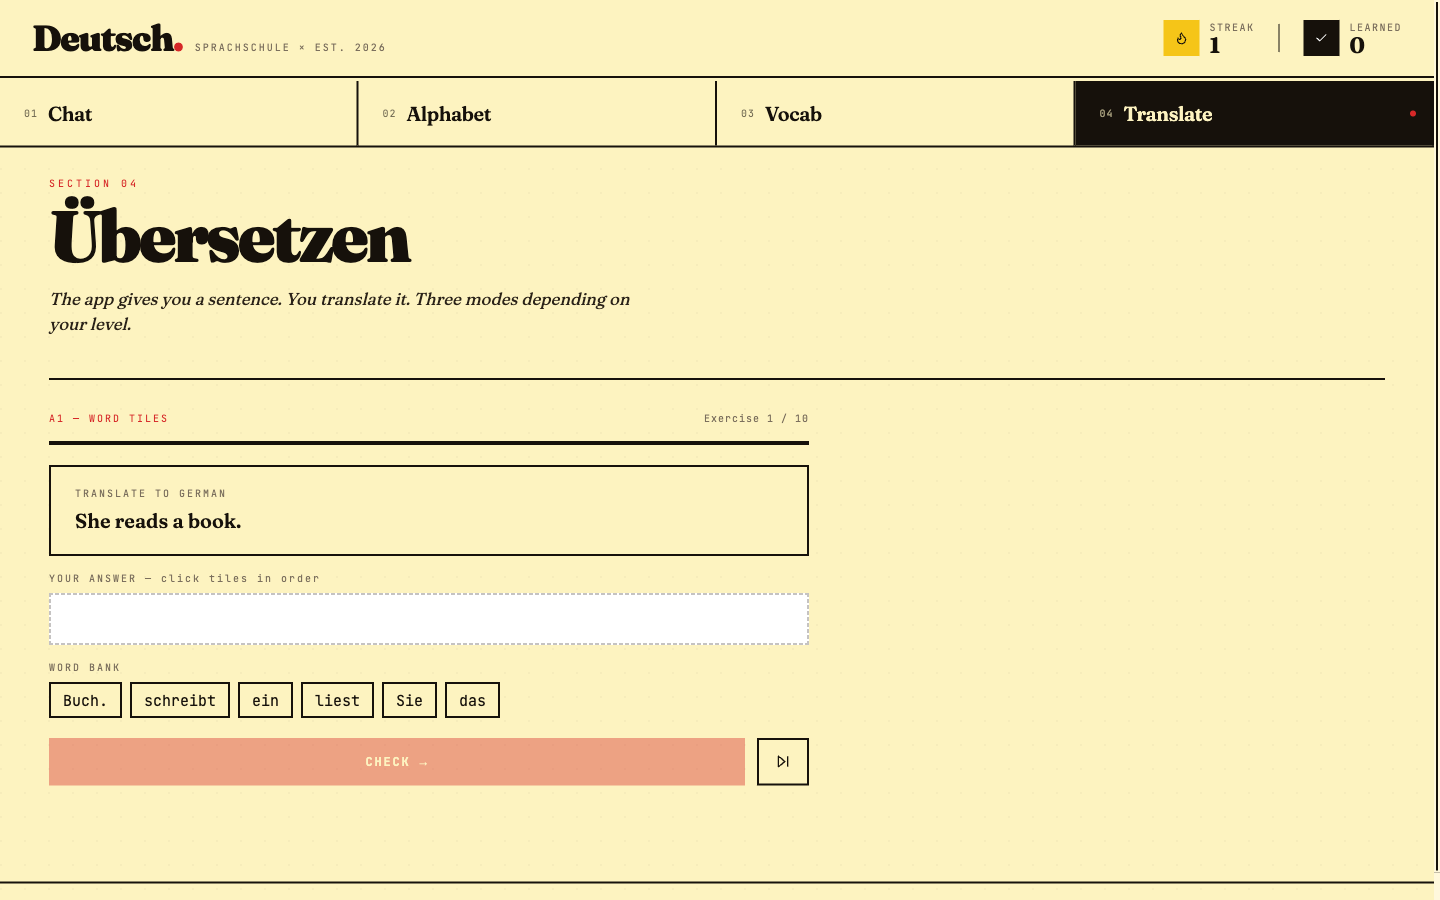
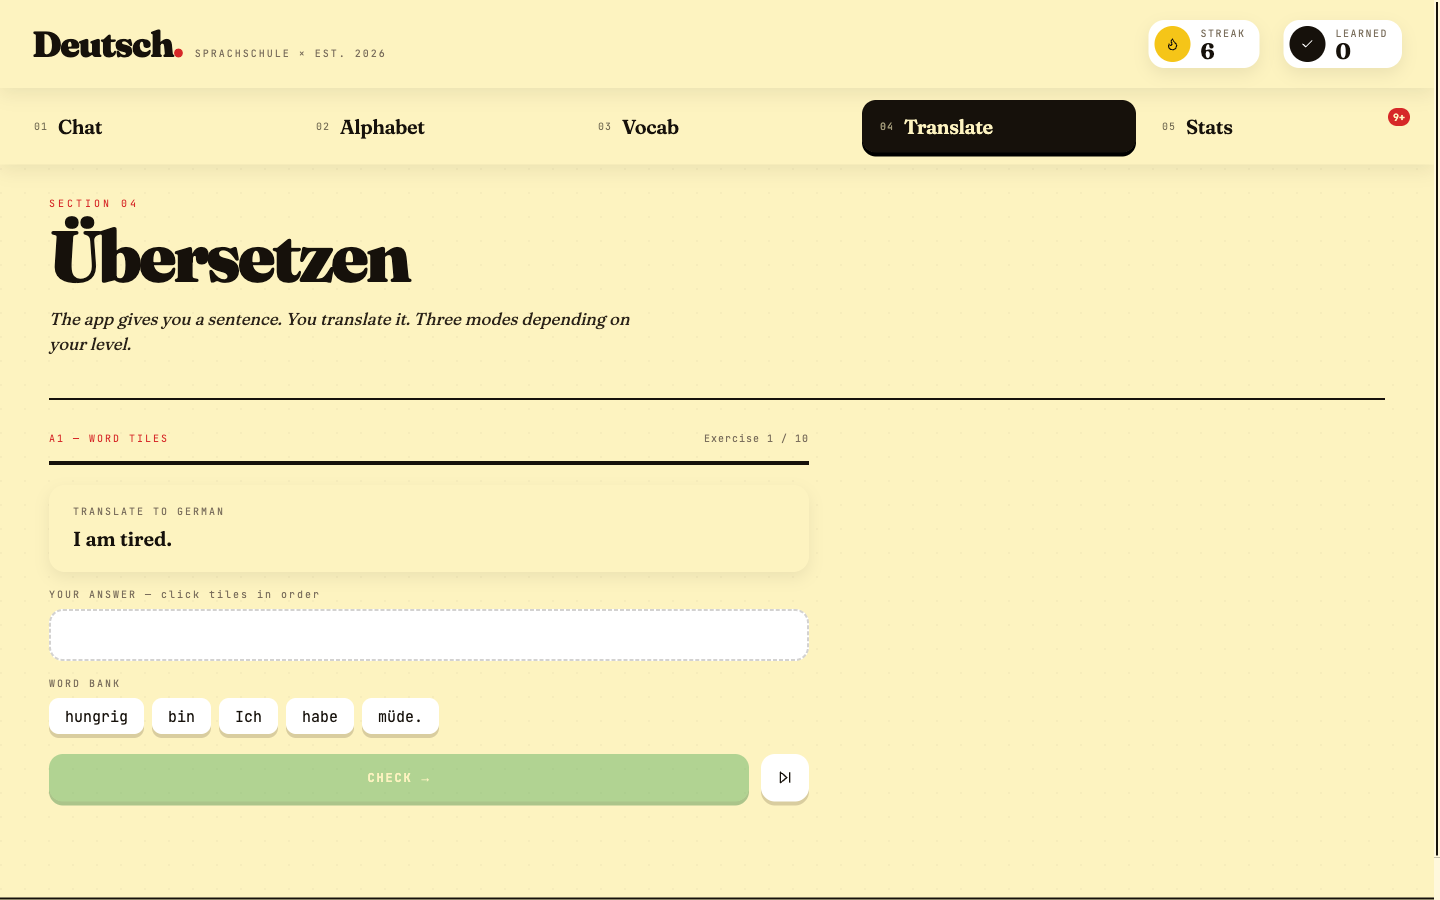
docs: refresh README for redesign + add CI/Live-Demo badges + social preview
- Re-capture all 6 screenshots in the new "playful editorial" design
  (the old ones showed the pre-redesign flat look) at 1440px
- Hero now showcases splash + chat + vocab + stats
- Badges: add live GitHub Actions CI status + Live Demo (Vercel) badges,
  split status vs tech badge rows, bump Vitest 142 → 163
- Tech Stack: Testing row → 163 + React Testing Library; add CI row
- Add docs/social-preview.png (1280×640 branded OG image) + its
  docs/social-preview.html source for regeneration

diff --git a/docs/social-preview.html b/docs/social-preview.html
@@ -1,0 +1,74 @@
+<!doctype html>
+<html>
+  <head>
+    <meta charset="utf-8" />
+    <style>
+      @import url('https://fonts.googleapis.com/css2?family=Fraunces:opsz,wght@9..144,400;9..144,600;9..144,700;9..144,900&family=JetBrains+Mono:wght@400;500;700&display=swap');
+      * { margin: 0; padding: 0; box-sizing: border-box; }
+      html, body { width: 1280px; height: 640px; overflow: hidden; }
+      body {
+        font-family: 'Fraunces', Georgia, serif;
+        background: #FDF3C0;
+        background-image: radial-gradient(circle at 1px 1px, rgba(42,34,24,0.06) 1px, transparent 0);
+        background-size: 26px 26px;
+        display: flex;
+        position: relative;
+      }
+      .flag { position: absolute; top: 0; right: 0; bottom: 0; width: 14px; display: flex; flex-direction: column; }
+      .flag > div { flex: 1; }
+      .mono { font-family: 'JetBrains Mono', monospace; }
+      .left { flex: 1; padding: 76px 0 76px 80px; display: flex; flex-direction: column; justify-content: center; }
+      .right { width: 470px; display: flex; flex-direction: column; justify-content: center; gap: 18px; padding-right: 70px; }
+      .pill {
+        display: inline-flex; align-items: center; gap: 8px;
+        background: #fff; border-radius: 999px; padding: 9px 16px;
+        font-family: 'JetBrains Mono', monospace; font-size: 14px; font-weight: 700;
+        letter-spacing: 0.06em; color: #16110b; box-shadow: 0 4px 0 #d9cd9f;
+      }
+      .btn3d {
+        border-radius: 16px; font-family: 'JetBrains Mono', monospace; font-weight: 700;
+        letter-spacing: 0.08em; font-size: 15px; padding: 14px; text-align: center; color: #fff;
+      }
+    </style>
+  </head>
+  <body>
+    <div class="left">
+      <div class="mono" style="font-size:15px; letter-spacing:0.34em; color:#7a6e5c; margin-bottom:22px;">
+        S P R A C H S C H U L E &nbsp;×&nbsp; E S T .&nbsp; 2 0 2 6
+      </div>
+      <div style="font-size:128px; font-weight:900; letter-spacing:-0.05em; line-height:0.9; color:#16110b;">
+        Deutsch<span style="color:#D62828;">.</span>
+      </div>
+      <div style="font-family:'Fraunces',serif; font-style:italic; font-size:30px; color:#2a2218; margin-top:18px; max-width:560px; line-height:1.35;">
+        Learn German with an AI tutor — guided chat, spaced-repetition vocab, and translation drills.
+      </div>
+      <div style="display:flex; gap:12px; margin-top:34px; flex-wrap:wrap;">
+        <span class="pill">🗣 AI TUTOR</span>
+        <span class="pill">🗂 SRS VOCAB</span>
+        <span class="pill">📊 PROGRESS</span>
+        <span class="pill">📲 PWA</span>
+      </div>
+    </div>
+
+    <div class="right">
+      <!-- mini flashcard -->
+      <div style="background:#fff; border-radius:24px; padding:30px 24px; text-align:center; box-shadow:0 9px 0 rgba(22,17,11,0.12);">
+        <div style="font-size:54px; font-weight:700; color:#16110b; line-height:1;">Hallo</div>
+        <div class="mono" style="font-size:14px; color:#7a6e5c; margin-top:10px;">[ˈhalo]</div>
+      </div>
+      <!-- answer tiles -->
+      <div style="display:grid; grid-template-columns:1fr 1fr; gap:13px;">
+        <div class="btn3d" style="background:#fff; color:#16110b; box-shadow:0 4px 0 #d9cd9f;">GOOD EVENING</div>
+        <div class="btn3d" style="background:#3FA34D; box-shadow:0 4px 0 #2f7d3a;">HELLO ✓</div>
+        <div class="btn3d" style="background:#fff; color:#16110b; box-shadow:0 4px 0 #d9cd9f;">PLEASE</div>
+        <div class="btn3d" style="background:#fff; color:#16110b; box-shadow:0 4px 0 #d9cd9f;">GOOD MORNING</div>
+      </div>
+    </div>
+
+    <div class="flag">
+      <div style="background:#16110b;"></div>
+      <div style="background:#D62828;"></div>
+      <div style="background:#F5C518;"></div>
+    </div>
+  </body>
+</html>

diff --git a/README.md b/README.md
@@ -9,6 +9,16 @@
 ### *A guided German learning app — AI tutor, exercise-driven practice, installable PWA*
 
 <p>
+  <a href="https://deutsch-app-dusky.vercel.app"><img alt="Live Demo" src="https://img.shields.io/badge/▶_Live_Demo-3FA34D?style=flat-square"/></a>
+  &nbsp;
+  <a href="https://github.com/blackhebrewisraeli/deutsch-app/actions/workflows/ci.yml"><img alt="CI" src="https://github.com/blackhebrewisraeli/deutsch-app/actions/workflows/ci.yml/badge.svg"/></a>
+  &nbsp;
+  <img alt="Tests" src="https://img.shields.io/badge/Vitest-163_passing-16110B?style=flat-square&logo=vitest"/>
+  &nbsp;
+  <img alt="License" src="https://img.shields.io/badge/License-MIT-7a6e5c?style=flat-square"/>
+</p>
+
+<p>
   <img alt="React" src="https://img.shields.io/badge/React_18-20232A?style=flat-square&logo=react&logoColor=61DAFB"/>
   &nbsp;
   <img alt="Vite" src="https://img.shields.io/badge/Vite_5-646CFF?style=flat-square&logo=vite&logoColor=white"/>
@@ -18,10 +28,6 @@
   <img alt="PWA" src="https://img.shields.io/badge/PWA-installable-F5C518?style=flat-square"/>
   &nbsp;
   <img alt="Mobile" src="https://img.shields.io/badge/Mobile-responsive-16110B?style=flat-square"/>
-  &nbsp;
-  <img alt="License" src="https://img.shields.io/badge/License-MIT-7a6e5c?style=flat-square"/>
-  &nbsp;
-  <img alt="Tests" src="https://img.shields.io/badge/Vitest-142_passing-16110B?style=flat-square&logo=vitest"/>
 </p>
 
 <p>
@@ -37,7 +43,13 @@
 
 ![Splash screen — German flag onboarding](docs/screenshot-splash.png)
 
-![Chat tab — AI tutor Anna](docs/screenshot-chat.png)
+<br/>
+
+![Chat — guided conversation with the AI tutor Anna](docs/screenshot-chat.png)
+
+![Vocab — spaced-repetition flashcards with 3D-press answers](docs/screenshot-vocab.png)
+
+![Stats — practice dashboard with heatmap, accuracy, and review queue](docs/screenshot-stats.png)
 
 <br/>
 
@@ -396,7 +408,8 @@ AI-generated decks expand to any domain on demand.
 | Persistence | **localStorage** | Streak, learned words, chosen level — no backend |
 | Linting | **ESLint 10** (flat config) + `react-hooks/exhaustive-deps` | Catches stale closures, missing deps, unused vars |
 | Formatting | **Prettier 3** | Consistent code style, enforced on every commit |
-| Testing | **Vitest 2** + **jsdom** + `@vitest/coverage-v8` | 142 unit tests across `utils`, `storage`, `content` invariants, `stats`, `srs` |
+| Testing | **Vitest 2** + **jsdom** + **React Testing Library** | **163 tests** — logic/data (`utils`, `storage`, `content`, `stats`, `srs`) + component tests (`ui/Button`, `stats/*`) |
+| CI | **GitHub Actions** | Runs lint + test + build on every push to `main` and every PR |
 | Pre-commit | **Husky + lint-staged** | Runs ESLint + Prettier + the full test suite before every `git commit` |
 | PWA | **vite-plugin-pwa** + Workbox | Installable on iOS/Android, offline-capable static assets |
 | Responsive | `useWindowWidth` hook | Live viewport width → inline style breakpoints (mobile < 640px) |
